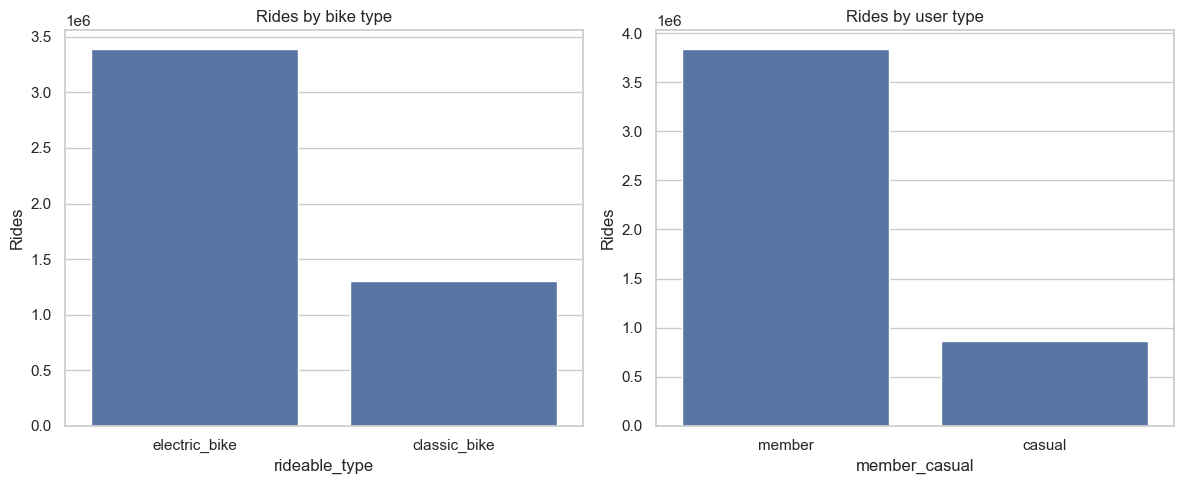
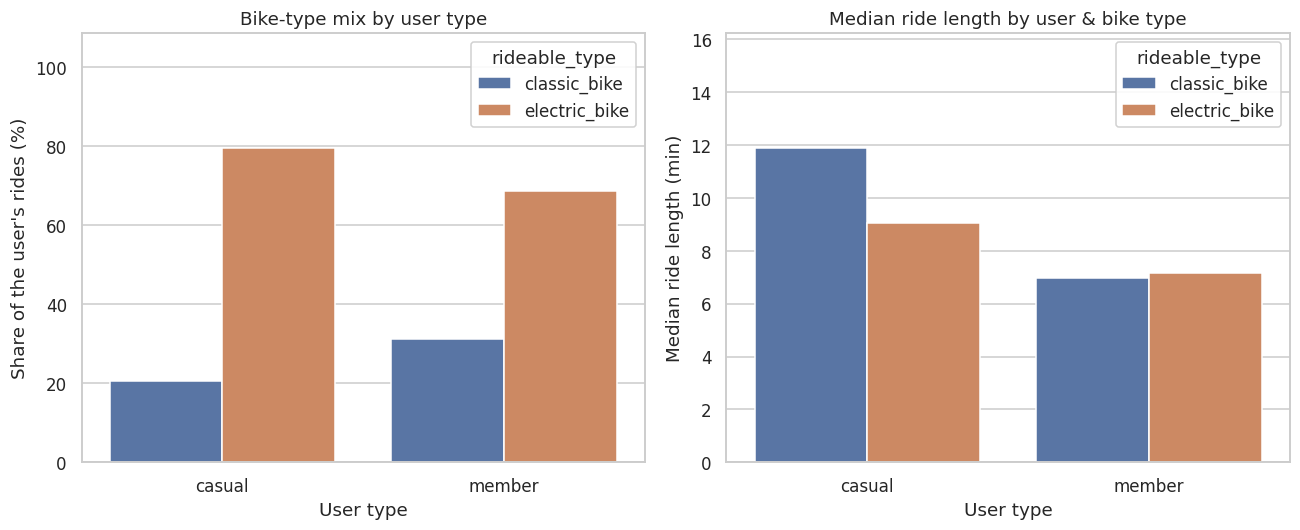
Complete citi bike analysis section

diff --git a/docs/technical-report/chapters/city-bike.tex b/docs/technical-report/chapters/city-bike.tex
@@ -55,43 +55,48 @@ Trips are concentrated during commuting hours, while weekends show different usa
 
 \paragraph{Spatial Analysis}
 Spatial analysis highlights the distribution of trips across the city.
-Station popularity and trip flows reveal that demand is concentrated around Manhattan and other high-density areas, with some stations acting as important origins and destinations.
+Station popularity and trip flows reveal that demand is concentrated around Manhattan and other high-density areas, with some stations acting as important origins.
 
 \begin{figure}[H]
     \centering
     \includegraphics[width=0.5\textwidth]{../media/rides_stations.png}
-    \caption{Distribution of trips by station, showed through an heatmap.}
+    \caption{Distribution of trips by station of origin, showed through an heatmap.}
     \label{fig:rides_stations}
 \end{figure}
 
-\paragraph{User Behaviour Analysis}
-User behaviour analysis compares members and casual users. Members generally show more regular commuting patterns, while casual users tend to have shorter-term and more variable usage patterns, as shown in Figure~\ref{fig:rides_type}.
-
+\paragraph{User/Bike Type Behaviour Analysis}
+As shown in Figure~\ref{fig:rides_type}, casual riders lean much more heavily on electric bikes than members do.
+Furthermore, casual riders take longer trips on both bike types, whereas members maintain a steady, short duration regardless of the bike they choose. 
 \begin{figure}[H]
     \centering
-    \includegraphics[width=.9\textwidth]{../media/rides_type.png}
-    \caption{Distribution of trips by user type.}
+    \includegraphics[width=.8\textwidth]{../media/rides_type.png}
+    \caption{Distribution of trips by user type based on shares of rides and trip length.}
     \label{fig:rides_type}
 \end{figure}
 
 \paragraph{Trip Duration and Distance}
-Trip duration and distance distributions provide additional insight into mobility behaviour. Most trips are relatively short, while longer rides are less frequent and often correspond to recreational usage. The distributions of trip duration and distance are shown in Figures~\ref{fig:rides_duration} and~\ref{fig:rides_distance}.
+Trip duration and distance distributions provide additional insight into mobility behaviour.
+Most trips are relatively short, while longer rides are less frequent and often correspond to recreational usage.
+The distributions of trip duration and distance shows some anomalies that we are describing in the following section.
 
 \begin{figure}[H]
     \centering
-    \includegraphics[width=.7\textwidth]{../media/rides_duration.png}
-    \caption{Distribution of trip durations.}
-    \label{fig:rides_duration}
+    \begin{minipage}[t]{0.45\textwidth}
+        \centering
+        \includegraphics[width=\textwidth]{../media/rides_duration.png}
+        \caption{Distribution of trip durations.}
+        \label{fig:rides_duration}
+    \end{minipage}
+    \hfill
+    \begin{minipage}[t]{0.45\textwidth}
+        \centering
+        \includegraphics[width=\textwidth]{../media/rides_distance.png}
+        \caption{Distribution of trip straight-line distances.}
+        \label{fig:rides_distance}
+    \end{minipage}
 \end{figure}
 
-\begin{figure}[H]
-    \centering
-    \includegraphics[width=.9\textwidth]{../media/rides_distance.png}
-    \caption{Distribution of trip distances.}
-    \label{fig:rides_distance}
-\end{figure}
-
-These analyses motivate the use of temporal aggregation, station-level summaries, and flow visualizations in the final dashboard.
+These analyses justify our dashboard proposal, as they instantly reveal the clear relationships across temporal patterns, station-level dynamics, and user flows.
 
 \subsection{Data Quality}
 Various data quality issues were encountered during the analysis of the City Bike dataset.
